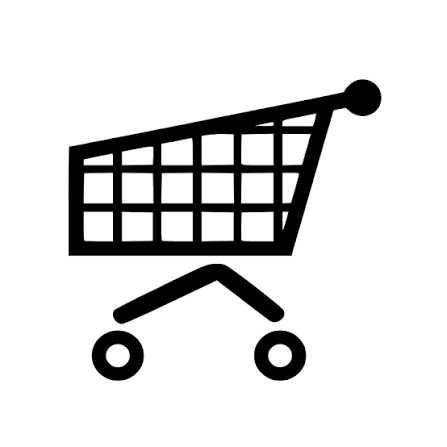
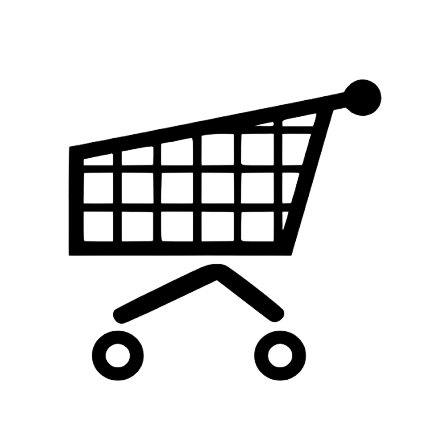
PHP attempt on responsive basket

diff --git a/src/styles/order.css b/src/styles/order.css
@@ -1,0 +1,72 @@
+/* Hero Section */
+
+.heroOrderSection {
+    display: flex;
+    flex-direction: row;
+    align-items: center;
+    justify-content: left;
+    background-color: #ededed;
+    text-align: center;
+    padding: 30px 30px;
+    margin: 0 auto 144px auto;
+    width: 100%;
+    gap: 60px;
+}
+
+.heroOrderSection h1 {
+    font-family:'Open Sans' ,sans-serif;
+    font-size: 55px;
+    text-align: left;
+}
+
+.heroOrderText {
+    display: flex;
+    flex-direction: column;
+    align-items: flex-start;
+    margin-left: 120px;
+    flex-shrink: 0;
+}
+
+.shoppingBasketOrder {
+    flex-shrink: 0;
+}
+
+.shoppingBasketOrder img {
+    display: block;
+    width: 100%;
+    max-width: 220px;
+    height: auto;
+    margin: 0;
+}
+
+.menuBtn {
+    margin: 45px 3px auto -7px;
+    background-color: #5c3b28;
+    font-family: "Open Sans", sans-serif;
+    border: none;
+    padding: 15px 38px;
+    font-weight: bold;
+    text-decoration: none;
+    cursor: pointer;
+    border-radius: 12px;
+    font-size: 20px;
+    color: white;
+}
+
+.menuBtn:hover {
+    transition: transform 0.2s ease-in-out;
+    transform: scale(1.07);
+}
+
+.menuBtn a {
+    color: inherit;
+}
+
+/* Basket */
+
+.cardLB {
+    border: none;
+    height: 2px;
+    background-color: #5c3b28;
+    width: 75%;
+}

diff --git a/src/styles/menu.css b/src/styles/menu.css
@@ -112,7 +112,7 @@
     border-radius: 12px;
     display: grid;
     justify-items: center;
-    gap: 30px;
+    gap: 20px;
     align-items: center;
     padding: 20px;
     cursor: pointer;
@@ -127,4 +127,23 @@
 
 .card p {
     font-weight: 530;
+}
+
+.tagLineCard p{
+    font-family: "Open Sans", sans-serif;
+}
+
+a {
+    color: inherit;
+}
+
+a:hover {
+    color: #d2a679;
+}
+
+.cardLB {
+    border: none;
+    height: 2px;
+    background-color: #5c3b28;
+    width: 75%;
 }

diff --git a/src/styles/index.css b/src/styles/index.css
@@ -17,7 +17,6 @@
     font-family:'Open Sans' ,sans-serif;
     font-size: 60px;
     text-align: left;
-
 }
 
 .heroText {

diff --git a/src/pages/menu.php b/src/pages/menu.php
@@ -34,7 +34,10 @@ include '../components/header.php';
                             <img class="espresso" src="../assets/menu/espresso.jpeg" alt="An image of an espresso">
                         <h2>Espresso</h2>
                         <p class="tagLineCard">Pure, concentrated energy in a bold, rich shot.</p>
-                        <p>Click to add / remove from basket</p>
+                        <hr class="cardLB">
+                        <a href="../pages/order.php?item=espresso">
+                            <p><strong>Click to add / remove from basket</strong></p>
+                        </a>
                     </div>
                 </div>
                 <div class="column">
@@ -42,7 +45,10 @@ include '../components/header.php';
                             <img src="../assets/menu/cappuccino.jpg" alt="An image of a cappuccino">
                         <h2>Cappuccino</h2>
                         <p class="tagLineCard">Perfectly balanced espresso topped with velvety steamed milk and airy foam.</p>
-                        <p>Click to add / remove from basket</p>
+                        <hr class="cardLB">
+                        <a href="../pages/order.php?item=cappuccino">
+                            <p><strong>Click to add / remove from basket</strong></p>
+                        </a>
                     </div>
                 </div>
                 <div class="column">
@@ -50,7 +56,10 @@ include '../components/header.php';
                         <img src="../assets/menu/hotChoc.jpg" alt="An image of a hot chocolate">
                         <h2>Hot Chocolate</h2>
                         <p class="tagLineCard">A rich, comforting classic crafted with decadent cocoa warmth.</p>
-                        <p>Click to add / remove from basket</p>
+                        <hr class="cardLB">
+                        <a href="../pages/order.php?item=hotChocolate">
+                            <p><strong>Click to add / remove from basket</strong></p>
+                        </a>
                     </div>
                 </div>
             </div>
@@ -60,7 +69,10 @@ include '../components/header.php';
                         <img src="../assets/menu/latte.jpeg" alt="An image of a latte">
                         <h2>Latte</h2>
                         <p class="tagLineCard">Smooth espresso poured over silky, micro-steamed milk for a gentle, balanced flavor.</p>
-                        <p>Click to add / remove from basket</p>
+                        <hr class="cardLB">
+                        <a href="../pages/order.php?item=latte">
+                            <p><strong>Click to add / remove from basket</strong></p>
+                        </a>
                     </div>
                 </div>
                 <div class="column">
@@ -68,7 +80,10 @@ include '../components/header.php';
                         <img src="../assets/menu/whiteHotChoc.jpg" alt="An image of a white hot chocolate">
                         <h2>White Hot Chocolate</h2>
                         <p class="tagLineCard">Pure chemicals but <strong>DELICIOUS</strong></p>
-                        <p>Click to add / remove from basket</p>
+                        <hr class="cardLB">
+                        <a href="../pages/order.php?item=whiteHotChocolate">
+                            <p><strong>Click to add / remove from basket</strong></p>
+                        </a>
                     </div>
                 </div>
                 <div class="column">
@@ -76,7 +91,10 @@ include '../components/header.php';
                         <img src="../assets/coffeeCupTwo.webp" alt="An image of two coffee cups">
                         <h2>La Mejor</h2>
                         <p class="tagLineCard">Our signature house drink - true to its name, the best craft blend in every cup.</p>
-                        <p>Click to add / remove from basket</p>
+                        <hr class="cardLB">
+                        <a href="../pages/order.php?item=laMejor">
+                            <p><strong>Click to add / remove from basket</strong></p>
+                        </a>
                     </div>
                 </div>
             </div>

diff --git a/src/pages/order.php b/src/pages/order.php
@@ -16,10 +16,25 @@ include '../components/header.php';
                 <div class="heroOrderText">
                     <h1>Coffee made for<br><i>you</i></h1>
                     <button id="menuBtn" class="menuBtn">Our Menu</button>
-                </div>
-        </section>
-    </main>
 
+                    <!-- BASKET -->
+
+                    <div class="basketContainer">
+                        <div class="basket">
+                            <h2>Basket</h2>
+                            <hr class="cardLB">
+                            <?php
+                            $basketItems = [];
+                            if (!empty($_GET['item'])) {
+                                $basketItems = [$_GET['item']];
+                                foreach ($basketItems as $item) {
+                                    echo "<div class='basketItem'>1x $item</div>";
+                                }
+                            }
+                            ?>
+                        </div>
+                    </div>
+    </main>
 <?php
 include '../components/footer.php';
 ?>
